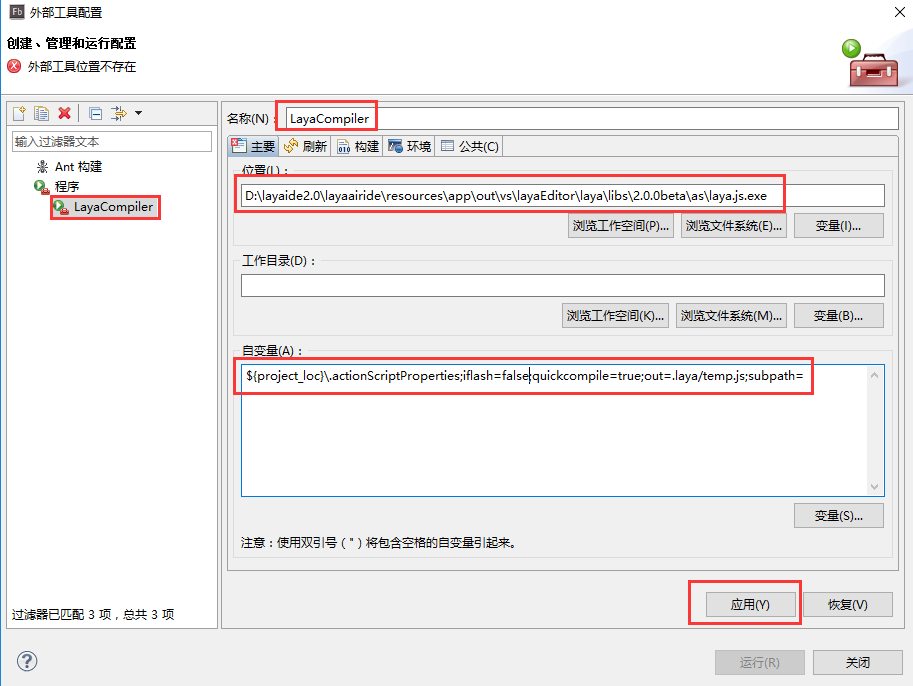
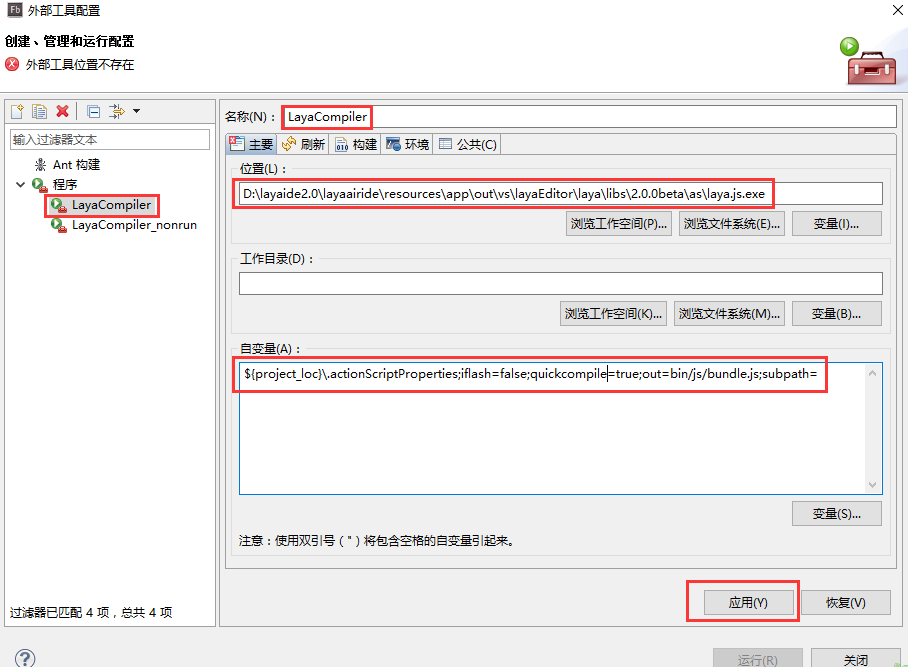
fbevri

Changed region(s): [[0.0, 0.0, 1.0, 1.0], [0.9868, 0.9595, 1.0, 1.0], [0.9868, 0.0, 1.0, 0.03]]

diff --git a/LayaAir2.0/Chinese/LayaAir_AS3/2D/beginners/basic/FlashBuilder_DevelopmentEnvironment/readme.md b/LayaAir2.0/Chinese/LayaAir_AS3/2D/beginners/basic/FlashBuilder_DevelopmentEnvironment/readme.md
@@ -48,9 +48,9 @@
 
 然后点击“浏览文件系统”找到“`laya.js.exe`”或者直接复制”`laya.js.exe`”的路径粘贴到“位置”输入栏。
 
-最后在“自变量”栏里输入`"${project_loc}\.actionScriptProperties;iflash=false;chromerun=false;quickcompile=true;out=.laya/temp.js;subpath="`，点击”应用“即可完成本次配置。
+最后在“自变量”栏里输入`"${project_loc}\.actionScriptProperties;iflash=false;chromerun=false;quickcompile=true;out=bin/js/bundle.js;subpath="`，点击”应用“即可完成本次配置。
 
-如果我们不想每次编译都启动一个新的谷歌浏览器进程，按刚才的配置方式再次创建一个外部程序，仅需将自变量参数改为`"${project_loc}\.actionScriptProperties;iflash=false;chromerun=false;quickcompile=true;out=.laya/temp.js;subpath="`如图4、图5所示。
+如果我们不想每次编译都启动一个新的谷歌浏览器进程，按刚才的配置方式再次创建一个外部程序，仅需将自变量参数改为`"${project_loc}\.actionScriptProperties;iflash=false;chromerun=false;quickcompile=true;out=bin/js/bundle.js;subpath="`如图4、图5所示。
 
 ![4](img/4.png)<br />  （图4）
 
